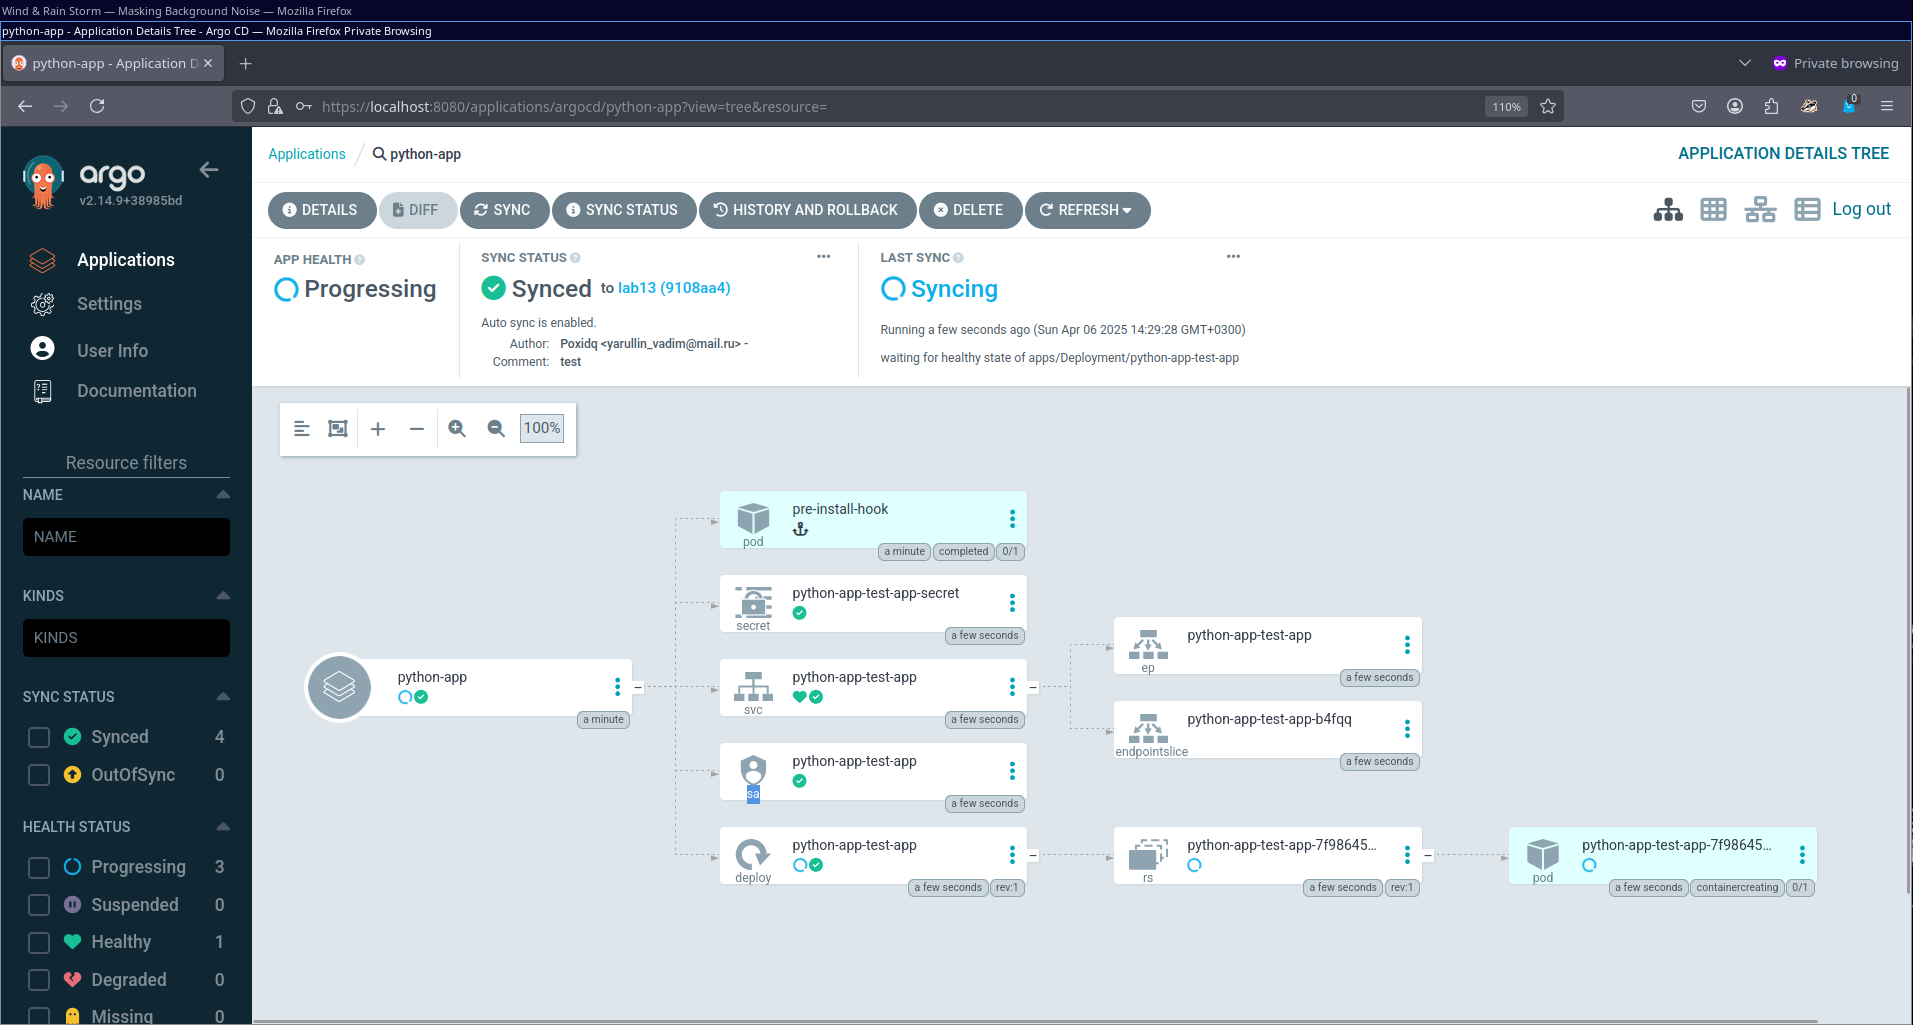
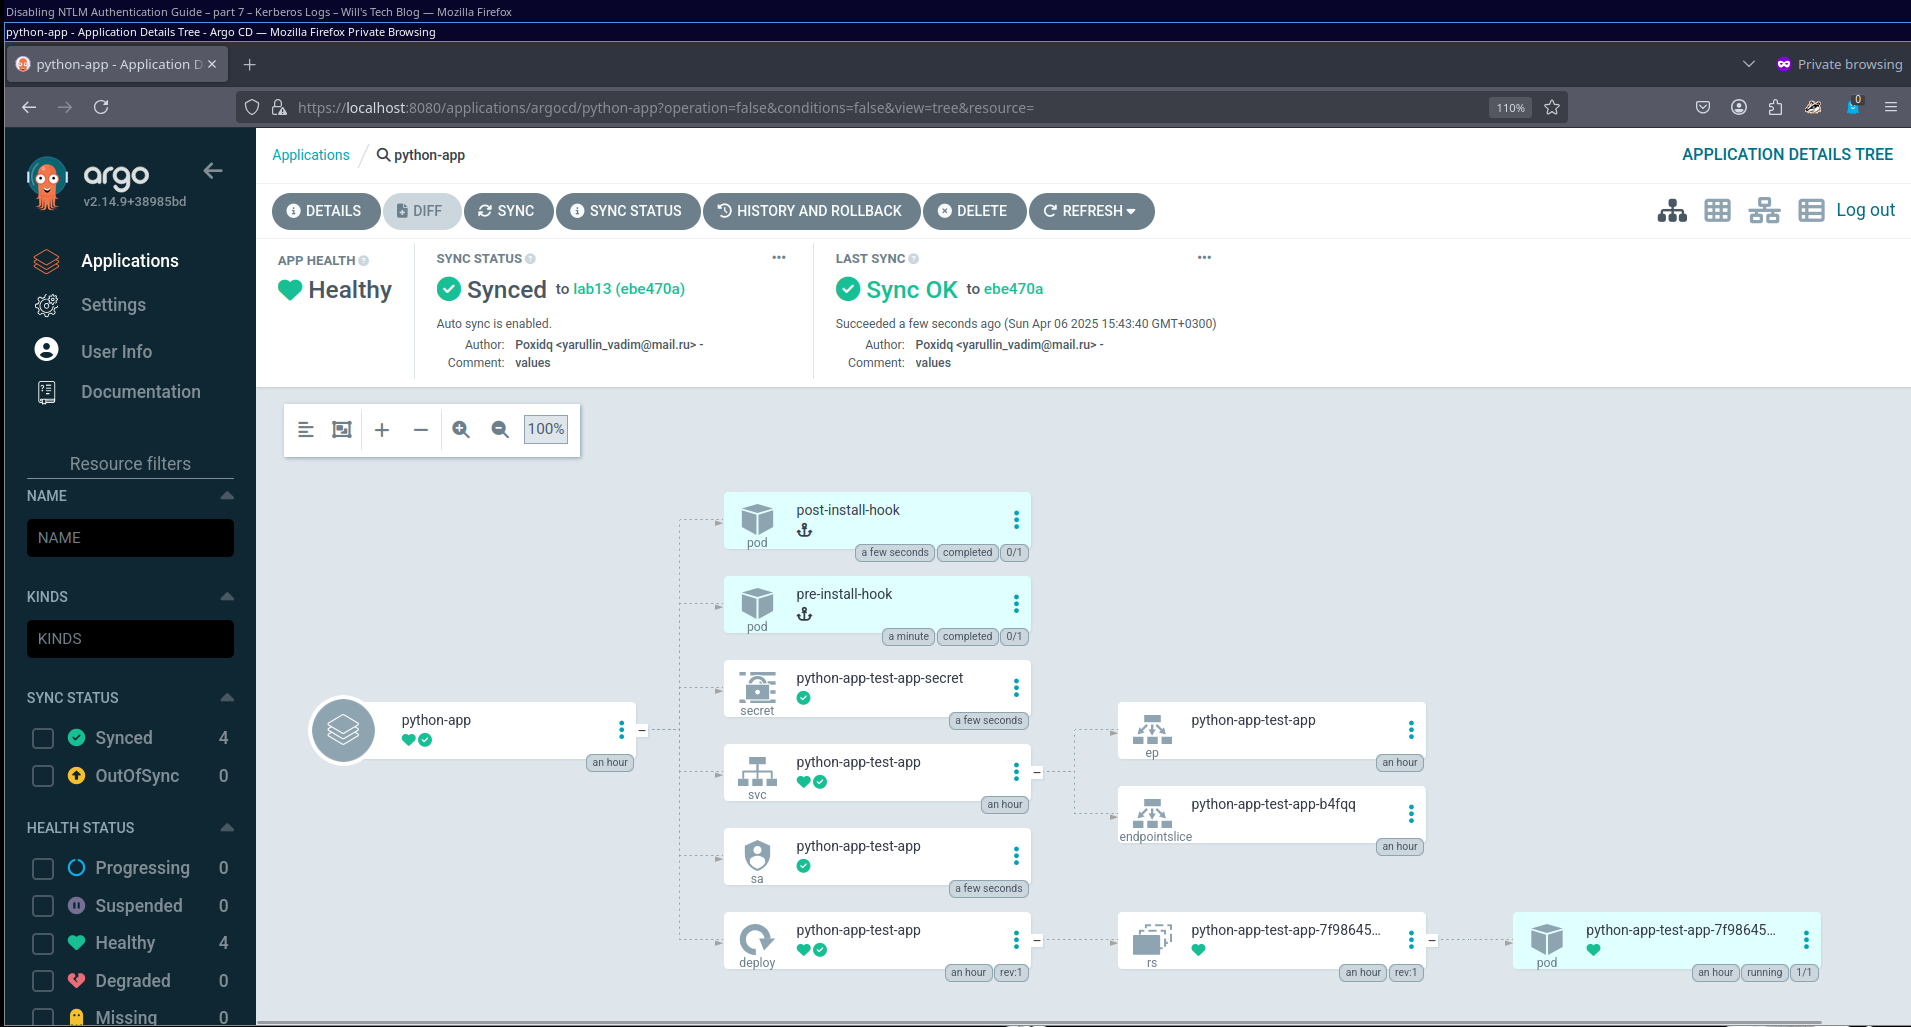
test2

diff --git a/k8s/13.md b/k8s/13.md
@@ -1,6 +1,5 @@
 # Lab 13: ArgoCD for GitOps Deployment
 
-## Overview
 8o5dPaOJgTwWoxU6
 ## Task 1: Deploy and Configure ArgoCD
 
@@ -100,3 +99,9 @@ application.argoproj.io/python-app created
 ```
 
 ![](./images/13_1.png)
+
+After setting `replicaCount` to 2 and making sync:
+
+![](./images/13_2.png)
+
+## Task 2
